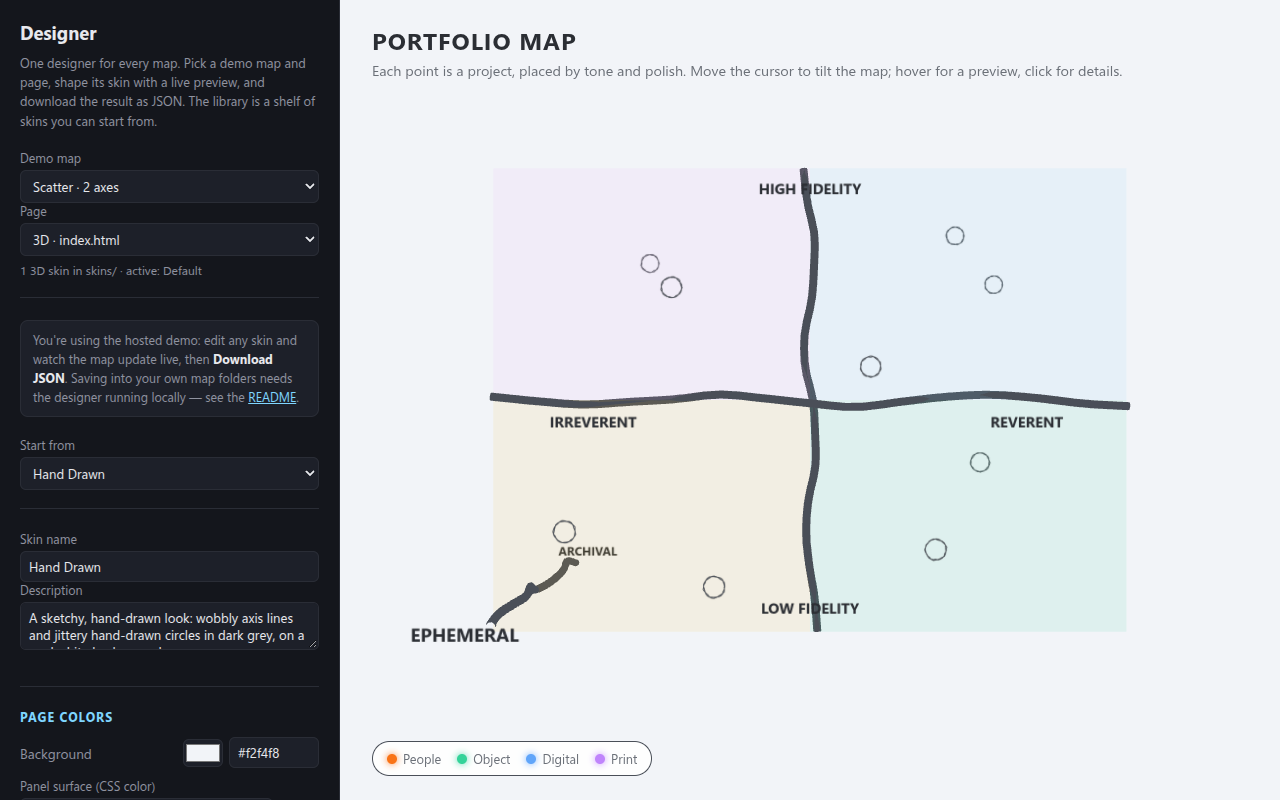
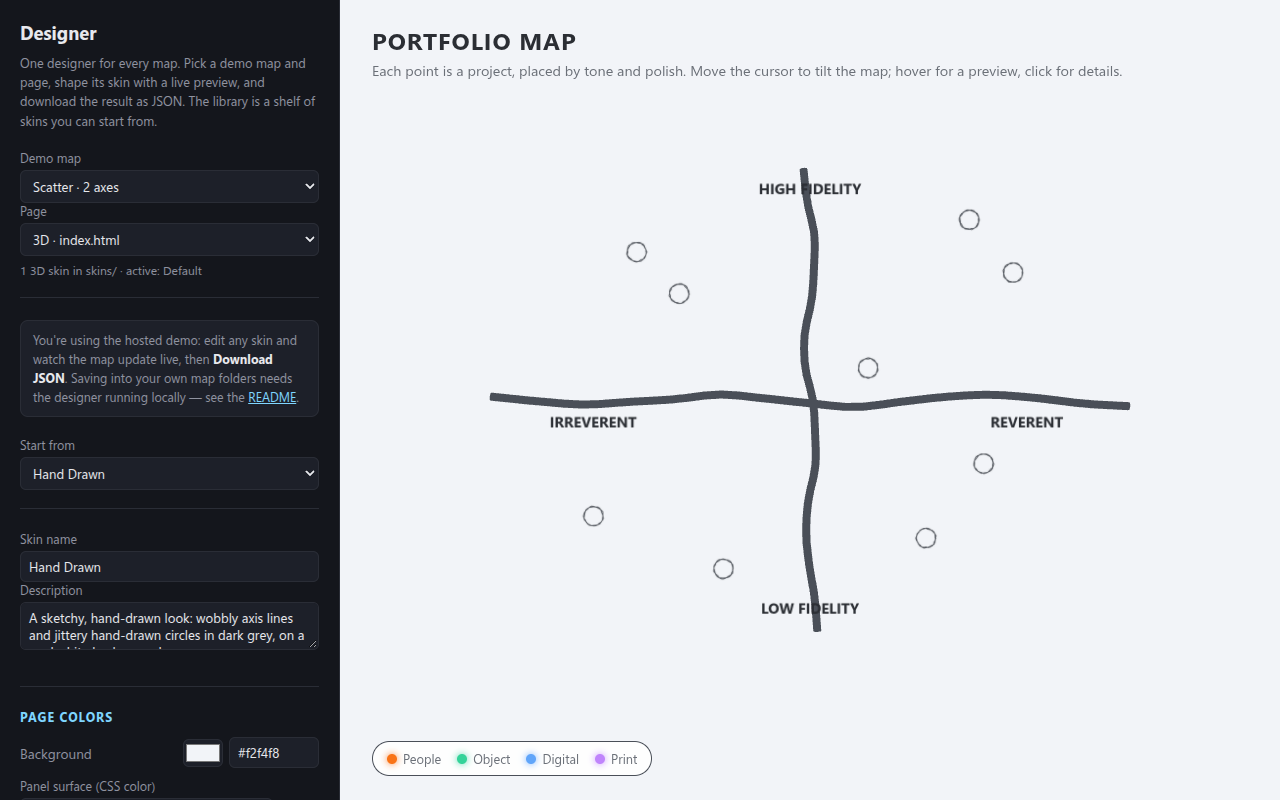
2-axis 3D: drop the floating depth axis, tinted panes off by default
- The 3D scatter is now truly two axes: no Ephemeral/Archival rod or labels,
  nodes sit on the x/y plane, and the sample data no longer carries z
- The four tinted quadrant panes stay available as a skin option
  (quadrants.show) but are off by default, in the page and in the Designer
- The Editor loses its Z field; docs and screenshots updated

diff --git a/demos/2-axis-scatter/script3d.js b/demos/2-axis-scatter/script3d.js
@@ -78,7 +78,7 @@ let SKIN = {
   },
   // the four tinted panes behind the quadrants
   quadrants: {
-    show: true,
+    show: false,
     opacity: 0.1,
     irreverentHigh: "#f0abfc",
     reverentHigh: "#7dd3fc",
@@ -498,7 +498,6 @@ function layout() {
   const shrink = (CAM_Z - worstZ) / CAM_Z;
   halfW = Math.min(reachX * shrink, reachY * shrink * 1.7);
   halfH = reachY * shrink;
-  const halfD = halfH * 0.6; // z extent: how far a node can sit toward/away from camera
 
   // pixel-based sizing for the line thickness and node radius
   const worldUnitsPerPixel = (2 * CAM_Z * tanHalf) / renderer.domElement.clientHeight;
@@ -532,14 +531,6 @@ function layout() {
   // axes
   content.add(makeAxis("x", halfW, lineR), makeAxis("y", halfH, lineR));
 
-  // z axis: a short corner rod running toward/away from the camera, since
-  // running it through the middle would cut straight through every node
-  const zCornerX = -halfW + 0.6;
-  const zCornerY = -halfH + 0.6;
-  const zAxis = makeAxis("z", halfD, lineR);
-  zAxis.position.set(zCornerX, zCornerY, 0);
-  content.add(zAxis);
-
   // axis end labels
   const labels = [
     ["Irreverent", -halfW + 1.3, -0.3],
@@ -553,18 +544,6 @@ function layout() {
     content.add(s);
   });
 
-  // z end labels sit at the corner rod's two ends — +z (toward camera) is
-  // Ephemeral, -z (receding, "filed away") is Archival
-  const zLabels = [
-    ["Ephemeral", zCornerX, zCornerY, halfD + 0.6],
-    ["Archival", zCornerX, zCornerY, -halfD - 0.6]
-  ];
-  zLabels.forEach(([text, x, y, z]) => {
-    const s = makeLabel(text);
-    s.position.set(x, y, z);
-    content.add(s);
-  });
-
   // nodes
   data.forEach((d, i) => {
     const shape = SHAPES[d.shape] ? d.shape : defaultShape;
@@ -572,10 +551,8 @@ function layout() {
     const core = buildCore(d, shape, nodeR);
     const hit = new THREE.Mesh(hitGeo, hitMat);
     group.add(core, hit);
-    // data z is -1 (Ephemeral) to 1 (Archival); Ephemeral pops forward toward
-    // the camera (+world z) and Archival recedes into the distance ("filed
-    // away"), so the data value is negated going into world space
-    group.position.set(d.x * halfW * 0.9, d.y * halfH * 0.9, 0.15 - (d.z || 0) * halfD * 0.85);
+    // two axes only: every node sits on the x/y plane, just in front of it
+    group.position.set(d.x * halfW * 0.9, d.y * halfH * 0.9, 0.15);
     content.add(group);
     // core.scale may already encode the node's actual size — sprite-based
     // fills (outline, solid-outline, sketch, image) set it via
@@ -624,8 +601,7 @@ function pick() {
 }
 
 function quadrantLabel(d) {
-  const base = `${d.x >= 0 ? "Reverent" : "Irreverent"} · ${d.y >= 0 ? "High" : "Low"} fidelity`;
-  return `${base} · ${(d.z || 0) >= 0 ? "Archival" : "Ephemeral"}`;
+  return `${d.x >= 0 ? "Reverent" : "Irreverent"} · ${d.y >= 0 ? "High" : "Low"} fidelity`;
 }
 
 function setHovered(node) {

diff --git a/editor/scatter3d-template/script3d.js b/editor/scatter3d-template/script3d.js
@@ -78,7 +78,7 @@ let SKIN = {
   },
   // the four tinted panes behind the quadrants
   quadrants: {
-    show: true,
+    show: false,
     opacity: 0.1,
     irreverentHigh: "#f0abfc",
     reverentHigh: "#7dd3fc",
@@ -498,7 +498,6 @@ function layout() {
   const shrink = (CAM_Z - worstZ) / CAM_Z;
   halfW = Math.min(reachX * shrink, reachY * shrink * 1.7);
   halfH = reachY * shrink;
-  const halfD = halfH * 0.6; // z extent: how far a node can sit toward/away from camera
 
   // pixel-based sizing for the line thickness and node radius
   const worldUnitsPerPixel = (2 * CAM_Z * tanHalf) / renderer.domElement.clientHeight;
@@ -532,14 +531,6 @@ function layout() {
   // axes
   content.add(makeAxis("x", halfW, lineR), makeAxis("y", halfH, lineR));
 
-  // z axis: a short corner rod running toward/away from the camera, since
-  // running it through the middle would cut straight through every node
-  const zCornerX = -halfW + 0.6;
-  const zCornerY = -halfH + 0.6;
-  const zAxis = makeAxis("z", halfD, lineR);
-  zAxis.position.set(zCornerX, zCornerY, 0);
-  content.add(zAxis);
-
   // axis end labels
   const labels = [
     ["Irreverent", -halfW + 1.3, -0.3],
@@ -553,18 +544,6 @@ function layout() {
     content.add(s);
   });
 
-  // z end labels sit at the corner rod's two ends — +z (toward camera) is
-  // Ephemeral, -z (receding, "filed away") is Archival
-  const zLabels = [
-    ["Ephemeral", zCornerX, zCornerY, halfD + 0.6],
-    ["Archival", zCornerX, zCornerY, -halfD - 0.6]
-  ];
-  zLabels.forEach(([text, x, y, z]) => {
-    const s = makeLabel(text);
-    s.position.set(x, y, z);
-    content.add(s);
-  });
-
   // nodes
   data.forEach((d, i) => {
     const shape = SHAPES[d.shape] ? d.shape : defaultShape;
@@ -572,10 +551,8 @@ function layout() {
     const core = buildCore(d, shape, nodeR);
     const hit = new THREE.Mesh(hitGeo, hitMat);
     group.add(core, hit);
-    // data z is -1 (Ephemeral) to 1 (Archival); Ephemeral pops forward toward
-    // the camera (+world z) and Archival recedes into the distance ("filed
-    // away"), so the data value is negated going into world space
-    group.position.set(d.x * halfW * 0.9, d.y * halfH * 0.9, 0.15 - (d.z || 0) * halfD * 0.85);
+    // two axes only: every node sits on the x/y plane, just in front of it
+    group.position.set(d.x * halfW * 0.9, d.y * halfH * 0.9, 0.15);
     content.add(group);
     // core.scale may already encode the node's actual size — sprite-based
     // fills (outline, solid-outline, sketch, image) set it via
@@ -624,8 +601,7 @@ function pick() {
 }
 
 function quadrantLabel(d) {
-  const base = `${d.x >= 0 ? "Reverent" : "Irreverent"} · ${d.y >= 0 ? "High" : "Low"} fidelity`;
-  return `${base} · ${(d.z || 0) >= 0 ? "Archival" : "Ephemeral"}`;
+  return `${d.x >= 0 ? "Reverent" : "Irreverent"} · ${d.y >= 0 ? "High" : "Low"} fidelity`;
 }
 
 function setHovered(node) {

diff --git a/editor/app.js b/editor/app.js
@@ -24,8 +24,6 @@
   const fieldCategory = document.getElementById("fieldCategory");
   const fieldX = document.getElementById("fieldX");
   const fieldY = document.getElementById("fieldY");
-  const fieldZ = document.getElementById("fieldZ");
-  const fieldZRange = document.getElementById("fieldZRange");
   const fieldDescription = document.getElementById("fieldDescription");
   const fieldTags = document.getElementById("fieldTags");
   const fieldLink = document.getElementById("fieldLink");
@@ -173,14 +171,6 @@
     setTarget(x, y);
   });
 
-  function setZ(z) {
-    const v = clamp(z);
-    fieldZ.value = v.toFixed(2);
-    fieldZRange.value = v;
-  }
-  fieldZ.addEventListener("input", () => setZ(parseFloat(fieldZ.value) || 0));
-  fieldZRange.addEventListener("input", () => setZ(parseFloat(fieldZRange.value) || 0));
-
   fieldX.addEventListener("input", syncTargetFromFields);
   fieldY.addEventListener("input", syncTargetFromFields);
 
@@ -200,9 +190,7 @@
   function quadrantLabel(node) {
     const xLabel = node.x >= 0 ? "Reverent" : "Irreverent";
     const yLabel = node.y >= 0 ? "High Fidelity" : "Low Fidelity";
-    if (siteSettings.view !== "3d") return `${xLabel} / ${yLabel}`;
-    const zLabel = (node.z || 0) >= 0 ? "Archival" : "Ephemeral";
-    return `${xLabel} / ${yLabel} / ${zLabel}`;
+    return `${xLabel} / ${yLabel}`;
   }
 
   function categoryById(id) {
@@ -258,7 +246,7 @@
           isTimeline()
             ? `${formatDate(node.date)} · ${SHAPE_NAMES[node.shape] || "Default shape"}`
             : siteSettings.view === "3d"
-            ? `${quadrantLabel(node)} · x ${node.x.toFixed(2)}, y ${node.y.toFixed(2)}, z ${(node.z || 0).toFixed(2)}`
+            ? `${quadrantLabel(node)} · x ${node.x.toFixed(2)}, y ${node.y.toFixed(2)}`
             : `${quadrantLabel(node)} · x ${node.x.toFixed(2)}, y ${node.y.toFixed(2)}`
         )
       );
@@ -471,7 +459,6 @@
     fieldY.value = 0;
     fieldCategory.value = "";
     setTarget(0, 0);
-    setZ(0);
     fieldDate.value = "";
     fieldShape.value = "";
     imagePreviewWrap.hidden = true;
@@ -499,7 +486,6 @@
       fieldDate.value = toInputValue(node.date, dateScheme());
     } else {
       setTarget(node.x, node.y);
-      setZ(node.z || 0);
     }
 
     if (node.image) {
@@ -581,7 +567,6 @@
       payload.shape = fieldShape.value;
       payload.x = clamp(parseFloat(fieldX.value) || 0);
       payload.y = clamp(parseFloat(fieldY.value) || 0);
-      payload.z = clamp(parseFloat(fieldZ.value) || 0);
     }
 
     if (pendingImageDataUrl) payload.imageDataUrl = pendingImageDataUrl;

diff --git a/editor/index.html b/editor/index.html
@@ -106,14 +106,6 @@
           </label>
         </div>
 
-        <label class="field z-field">
-          <span class="field__label">Z — Ephemeral (-1) to Archival (1) <span class="field__hint">(3D view only)</span></span>
-          <div class="z-field__controls">
-            <input type="range" id="fieldZRange" min="-1" max="1" step="0.01" value="0" />
-            <input type="number" id="fieldZ" min="-1" max="1" step="0.01" value="0" />
-          </div>
-        </label>
-
         <div class="field scatter-only">
           <span class="field__label">Position — click the chart to place it</span>
           <div class="mini-chart" id="miniChart">

diff --git a/editor/style.css b/editor/style.css
@@ -801,22 +801,3 @@ body:not([data-site-type="timeline"]) .timeline-only {
 
 /* per-node shape applies to timelines and to the 3D map view */
 body:not([data-site-type="timeline"]):not([data-view="3d"]) .shape-field { display: none; }
-
-/* z position only means anything in the 3D scatter view */
-body:not([data-view="3d"]) .z-field { display: none; }
-
-.z-field__controls {
-  display: flex;
-  align-items: center;
-  gap: 10px;
-}
-
-.z-field__controls input[type="range"] {
-  flex: 1;
-  accent-color: var(--accent);
-}
-
-.z-field__controls input[type="number"] {
-  width: 72px;
-  flex: none;
-}

diff --git a/designer/schema.js b/designer/schema.js
@@ -262,7 +262,7 @@ export const SCHEMAS = {
         imageToggle: false
       },
       quadrants: {
-        show: true,
+        show: false,
         opacity: 0.1,
         irreverentHigh: "#f0abfc",
         reverentHigh: "#7dd3fc",

diff --git a/editor/server.py b/editor/server.py
@@ -289,9 +289,7 @@ def sanitize_node(root, payload, existing=None):
     else:
         node["x"] = clamp(payload.get("x", node.get("x", 0)))
         node["y"] = clamp(payload.get("y", node.get("y", 0)))
-        # only meaningful in the 3D view, but stored regardless so switching
-        # flat -> 3d -> flat never loses it, same as x/y
-        node["z"] = clamp(payload.get("z", node.get("z", 0)))
+        node.pop("z", None)  # two axes only; older maps may still carry a depth
     shape = payload.get("shape", node.get("shape", ""))
     if shape in SHAPES:
         node["shape"] = shape

diff --git a/demos/2-axis-scatter/README.md b/demos/2-axis-scatter/README.md
@@ -4,9 +4,9 @@ The 2-axis portfolio map comes in two views of the same data, side by side:
 
 - **`flat.html`** — a flat CSS chart (Irreverent ↔ Reverent, Low ↔ High
   Fidelity), a thumbnail/dot toggle, a detail panel.
-- **`map3d.html`** — the same map in 3D (Three.js): a chrome cross over four
-  faintly tinted quadrants that tilts toward the cursor, with a short corner
-  rod for the Ephemeral ↔ Archival depth. **`index.html`** is a copy of
+- **`map3d.html`** — the same map in 3D (Three.js): a chrome
+  cross that tilts toward the cursor (the four tinted quadrant panes are an
+  optional skin setting, off by default). **`index.html`** is a copy of
   whichever view is active (the editor's "View" setting swaps it), so
   keep the two 3D files identical.
 
@@ -28,8 +28,7 @@ editing stays fast and never serves a stale file.)
 ## Your own data
 
 Edit `data/nodes.json` and `data/categories.json`. Each node needs `x`,
-`y` (each -1 to 1), a `title`, and optionally a `z` (-1 Ephemeral to 1
-Archival — only the 3D view uses it), a `category` (id from categories.json),
+`y` (each -1 to 1), a `title`, and optionally a `category` (id from categories.json),
 `description`, `tags`, `link`, and `image`.
 
 ## Skins
@@ -95,7 +94,7 @@ are specific to the 2-axis map:
 
 ```json
 {
-  "quadrants": { "show": true, "opacity": 0.1, "irreverentHigh": "#f0abfc", "reverentHigh": "#7dd3fc", "irreverentLow": "#fbbf24", "reverentLow": "#34d399" },
+  "quadrants": { "show": false, "opacity": 0.1, "irreverentHigh": "#f0abfc", "reverentHigh": "#7dd3fc", "irreverentLow": "#fbbf24", "reverentLow": "#34d399" },
   "motion": { "tilt": true }
 }
 ```

diff --git a/README.md b/README.md
@@ -65,7 +65,7 @@ Deploy the folder to GitHub Pages, Netlify, S3, or any static file host — that
 | Map | Placement | Example entry |
 |---|---|---|
 | 1 axis — timeline | a `date` (`"2019"`, `"2019-06"` or `"2019-06-14"`) | `{"title": "Hymnal Redesign", "date": "2016", "category": "print"}` |
-| 2 axes — scatter | `x` and `y`, each from −1 to 1 (plus an optional `z` depth used by the 3D view) | `{"title": "Sunday School Zine", "x": 0.4, "y": -0.65, "z": -0.55, "category": "people"}` |
+| 2 axes — scatter | `x` and `y`, each from −1 to 1 | `{"title": "Sunday School Zine", "x": 0.4, "y": -0.65, "category": "people"}` |
 | 3 axes — map | `x`, `y` and `z`, each from −1 to 1 | `{"title": "Hymnal Redesign", "x": 0.7, "y": 0.6, "z": 0.75, "category": "print"}` |
 
 Every entry can also have a `description`, `tags`, a `link`, an `image` and a `shape` (`circle`, `cube` or `pyramid`). A node's color comes from its category (or from where it sits, depending on the skin) — never hand-picked per node.

diff --git a/editor/README.md b/editor/README.md
@@ -47,8 +47,7 @@ is tried next to this folder first.
 ## Three kinds of map
 
 - **Scatter map** — entries placed on two axes (e.g. Irreverent ↔ Reverent,
-  Low ↔ High Fidelity), plus an optional depth (Ephemeral ↔ Archival) used by
-  the 3D view. A **Map settings** card has a **View** choice:
+  Low ↔ High Fidelity). A **Map settings** card has a **View** choice:
   - **Flat** – the 2D chart
   - **3D** – a chrome cross that tilts toward the cursor, with nodes as
     circles, cubes or pyramids
